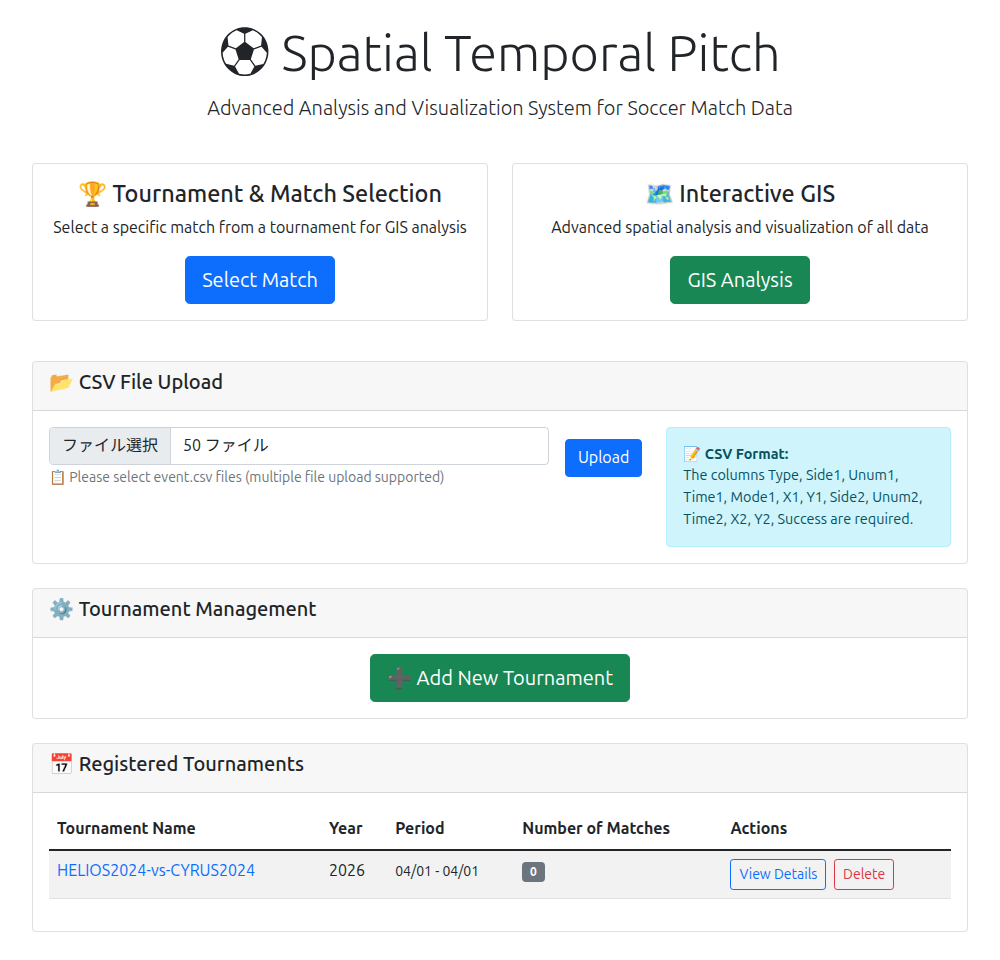
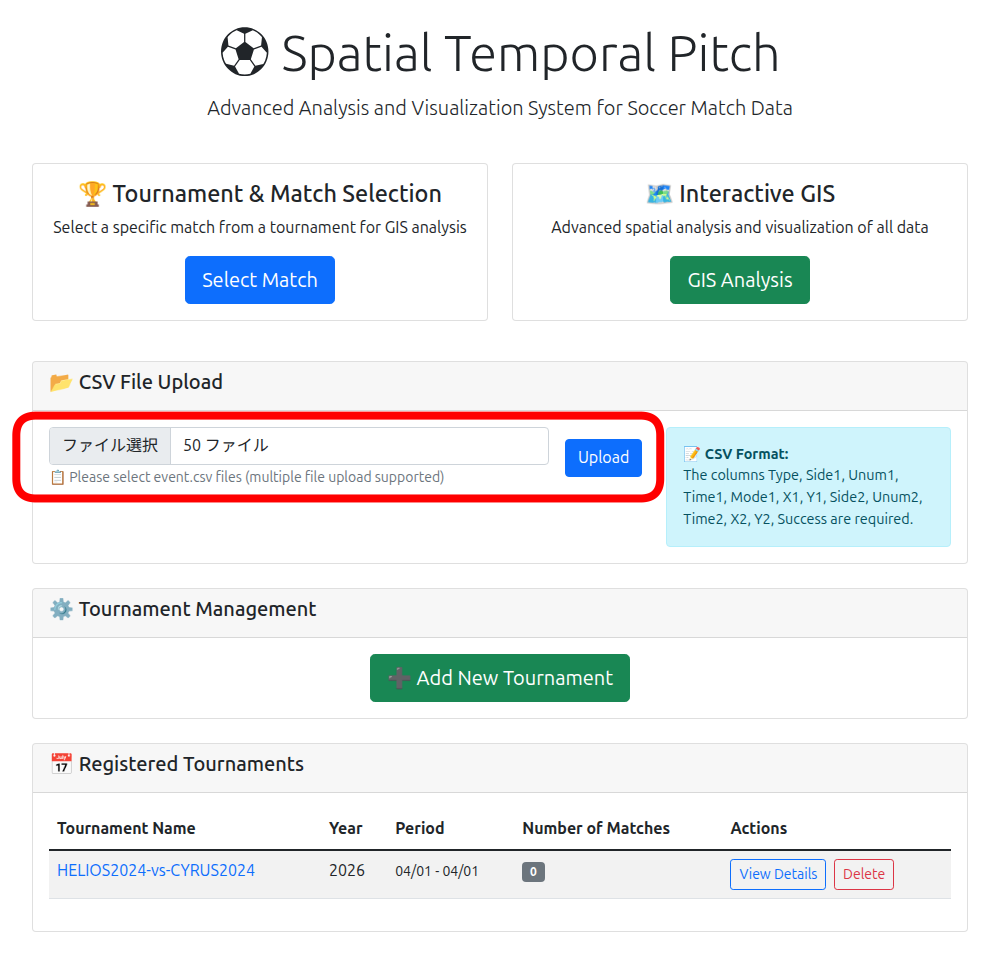
Add install.md and user_guide.md.

Changed region(s): [[0.0, 0.4375, 0.682, 0.5312], [0.031, 0.4062, 0.651, 0.4375]]

diff --git a/docs/user_guide.md b/docs/user_guide.md
@@ -1,0 +1,160 @@
+# User Guide
+
+ST-Pitch provides a web interface for registering soccer match event CSV files, organizing them into tournaments/groups, and analyzing the data on an interactive soccer field.
+
+## Overview
+
+The main page provides four main entry points:
+
+- Tournament and match selection
+- Interactive GIS analysis
+- CSV file upload
+- Tournament management
+
+![Top page](images/usage_00_top.png)
+
+## Recommended Workflow
+
+For first-time use, the recommended order is:
+
+1. Create a tournament
+2. Upload event CSV files
+3. Register uploaded matches to a tournament
+4. Open GIS analysis for a selected match
+5. Narrow the target area or conditions with filters
+6. Extract and review event sequences when needed
+
+## 1. Create a Tournament
+
+Use the **Add New Tournament** button on the top page to create a tournament container for your matches. A tournament can represent a specific competition, season, or any grouping of matches you want to analyze together.
+
+On the Add Tournament page, enter:
+
+- Tournament Name
+- Year
+- Start Date
+- End Date
+
+![Add tournament form](images/usage_01_group_1.png)
+Then click **Register Tournament**.
+
+After registration, the tournament appears in the Registered Tournaments list.
+
+## 2. Upload Event CSV Files
+
+From the top page, use the **CSV File Upload** section to upload one or more event CSV files.
+
+![CSV upload section](images/usage_03_upload_1.png)
+
+
+The CSV files must contain the required columns shown in the UI:
+
+| Column   | Description                         |
+|----------|-------------------------------------|
+| Type     | Event type                          |
+| Side1    | Team side of the acting player      |
+| Unum1    | Uniform number of the acting player |
+| Time1    | Start time of the event             |
+| Mode1    | Play mode at event start            |
+| X1, Y1   | Start position on the field         |
+| Side2    | Team side of the receiving player   |
+| Unum2    | Uniform number of the receiving player |
+| Time2    | End time of the event               |
+| X2, Y2   | End position on the field           |
+| Success  | Whether the event succeeded         |
+
+You can download event CSV files (`.event.csv`) from the [RoboCup2D-data](https://github.com/hidehisaakiyama/RoboCup2D-data) repository or create your own CSV files from `.rcg` files using [`rcg2data`](https://github.com/hidehisaakiyama/rcg2data) tool.
+
+
+You can upload multiple files at once. After selecting files, click **Upload**. When the upload succeeds, the page shows a success message.
+
+![Upload success](images/usage_03_upload_2-success.png)
+
+## 3. Register Uploaded Matches to a Tournament
+
+Open a tournament from the Registered Tournaments list to open the tournament detail page.
+
+If no match is registered yet, the page shows an empty state with an **Add Match** button.
+
+![Tournament detail before match registration](images/usage_03_upload_3-register-csv-to-group.png)
+
+Click **Add Match** to open the available match list. Select the matches you want to include in the tournament, then click **Add Selected Matches to Tournament**.
+
+![CSV files selected](images/usage_03_upload_4-select-csv.png)
+
+
+After registration, the tournament detail page lists the registered matches with buttons for **Match Selection & GIS Display** and **Full Data GIS Display**.
+
+![Add matches to tournament](images/usage_03_upload_5-list.png)
+
+
+## 4. Open Interactive GIS Analysis
+
+There are two main ways to open the GIS screen:
+
+- From the top page, click **GIS Analysis** to display all uploaded data.
+- From a tournament or match list, open GIS for a specific match.
+
+The GIS page displays event trajectories on a soccer field together with filter controls.
+
+![GIS overview](images/usage_04_gis_1.png)
+
+The main filters include:
+
+| Filter         | Description                                   |
+|----------------|-----------------------------------------------|
+| Event Type     | Filter by type of event (pass, dribble, etc.) |
+| Team           | Filter by team side                           |
+| Player number  | Filter by uniform number                      |
+| Match          | Filter by match ID (file name)                |
+| Success        | Filter by event outcome                       |
+| Time range     | Filter by start and end time                  |
+| Display limit  | Maximum number of events to display           |
+| Coordinate range | Bounding box filter on the field            |
+
+After choosing conditions, click **Coordinate Search** to update the results.
+
+## 5. Filter by Area on the Field
+
+You can perform spatial filtering directly on the pitch.
+
+Use the drawing tools on the left side of the map to create a **rectangle**, **circle**, or **polygon**. After drawing a shape, click **Search** to apply the spatial filter.
+
+![Spatial filter drawing](images/usage_04_gis_2_filter.png)
+
+The filtered result is reflected both on the pitch and in the list below the map.
+
+![Spatial filter applied](images/usage_04_gis_4_after-filter.png)
+
+To remove the spatial filter, click the **Clear** button next to the coordinate controls.
+
+## 6. Export Results
+
+Below the map, the **Event List** table shows the filtered events with fields such as start/end time, type, mode, team side, player number, positions, success flag, and match ID.
+
+![Event list and map](images/usage_04_gis_2_map.png)
+
+Click **Download CSV** to export the current search results as a CSV file.
+
+## 7. Extract Event Sequences
+
+ST-Pitch can extract a local event sequence from the current filtered area.
+
+First, define the target area on the pitch using the spatial filter. Then click **Extract Sequence**.
+
+![Sequence extraction mode](images/usage_05_sequence-1.png)
+
+You can select a sequence in the sequence extraction mode by clicking on the map or the event list. When a sequence candidate is found, the extracted sequence is highlighted on the map.
+
+![Sequence candidate highlighted](images/usage_05_sequence-2.png)
+
+Click **Filter by Sequence** to limit the view to the extracted sequence only.
+
+![Sequence filtered on the map](images/usage_05_sequence-3.png)
+
+The **Event List** table then shows the ordered events in the sequence.
+
+![Sequence event list](images/usage_05_sequence-4.png)
+
+Click **Clear Sequence Filter** or **Exit Sequence Mode** to return to the normal GIS workflow.
+

diff --git a/README.md b/README.md
@@ -17,78 +17,10 @@ The tools are designed to facilitate in-depth analysis of soccer matches, enabli
 - **Web Framework**: Flask for building the web application.
 - **Visualization**: Leaflet.js for interactive maps and data visualization.
 
-## Installation
+## Documentation
 
-The following steps are based on Ubuntu Linux 24.04 LTS. Please adjust the commands accordingly for other environments.
-
-1. Clone the repository:
-   ```bash
-    git clone https://github.com/alab-forge/ST-Pitch.git
-    cd ST-Pitch
-   ```
-1. Set up the PostgreSQL database and PostGIS extension.
-   ```bash
-    sudo apt-get install postgresql postgresql-contrib postgis
-    sudo systemctl enable --now postgresql
-   ```
-1. Create a new database.
-   Start the PostgreSQL shell (psql) as the postgres user:
-   ```bash
-    sudo -u postgres psql
-   ```
-   In the PostgreSQL shell, run:
-   ```sql
-    CREATE USER your_user WITH PASSWORD 'your_password'; -- Replace with your desired username and password
-    CREATE DATABASE your_db OWNER your_user; -- Replace with your desired database name and owner
-    \c your_db -- Connect to the newly created database
-    CREATE EXTENSION postgis;
-    \q -- Exit the PostgreSQL shell
-   ```
-1. Create a virtual environment and install the required Python packages.
-   ```bash
-    python3 -m venv venv
-    source venv/bin/activate
-    pip install -r requirements.txt
-   ```
-1. Setup the database configuration using the `.env` file.
-   The project uses a `.env` file for database and application configuration. To set up your environment:
-   
-   1. Create a symbolic link from `dot.env` to `.env`:
-   ```bash
-    ln -s dot.env .env
-   ```
-   
-   2. Edit `.env` and replace the placeholders with your actual values:
-   ```bash
-    # Database Configuration
-    DB_NAME=your_db
-    DB_USER=your_user
-    DB_PASSWORD=your_password
-    DB_HOST=localhost
-    DB_PORT=5432
-
-    # Flask Configuration
-    SECRET_KEY=your_secret_key
-   ```
-   
-   The `.env` file is automatically loaded when the application starts and is excluded from version control for security reasons.
-
-1. Run the Flask application.
-   ```bash
-   ./run.sh
-   ```
-1. Access the web application by navigating to `http://localhost:5000` in your web browser.
-
-**Note**:
-- Ensure that you have the necessary permissions and configurations for the PostgreSQL database and PostGIS extension to run the application successfully.
-- The name of the database, user, and password used in the example above are placeholders. Please replace them with your actual database credentials.
-- If you are deploying the application on a public server, consider using a WSGI server such as uWSGI or Gunicorn to serve the Flask application. Additionally, using a reverse proxy server like Nginx can enhance security and performance. 
-
-## Usage 
-
-The top page of the web interface provides options for managing tournaments/groups and uploading event CSV files. 
-
-
+- [Installation Instructions](docs/install.md): Step-by-step guide to set up the database and web application.
+- [User Guide](docs/user_guide.md): Instructions on how to use the web interface.
 
 
 ## Contributing

diff --git a/docs/install.md b/docs/install.md
@@ -1,0 +1,67 @@
+# Installation
+
+The following steps are based on Ubuntu Linux 24.04 LTS. Please adjust the commands accordingly for other environments.
+
+1. Clone the repository:
+   ```bash
+   git clone https://github.com/alab-forge/ST-Pitch.git
+   cd ST-Pitch
+   ```
+1. Set up the PostgreSQL database and PostGIS extension.
+   ```bash
+   sudo apt-get install postgresql postgresql-contrib postgis
+   sudo systemctl enable --now postgresql
+   ```
+1. Create a new database.
+   Start the PostgreSQL shell (psql) as the postgres user:
+   ```bash
+   sudo -u postgres psql
+   ```
+   In the PostgreSQL shell, run:
+   ```sql
+   CREATE USER your_user WITH PASSWORD 'your_password'; -- Replace with your desired username and password
+   CREATE DATABASE your_db OWNER your_user; -- Replace with your desired database name and owner
+   \c your_db -- Connect to the newly created database
+   CREATE EXTENSION postgis;
+   \q -- Exit the PostgreSQL shell
+   ```
+1. Create a virtual environment and install the required Python packages.
+   ```bash
+   python3 -m venv venv
+   source venv/bin/activate
+   pip install -r requirements.txt
+   ```
+1. Set up the database configuration using the `.env` file.
+   The project uses a `.env` file for database and application configuration. To set up your environment:
+
+   1. Create a symbolic link from `dot.env` to `.env`:
+   ```bash
+   ln -s dot.env .env
+   ```
+
+   2. Edit `.env` and replace the placeholders with your actual values:
+   ```bash
+   # Database Configuration
+   DB_NAME=your_db
+   DB_USER=your_user
+   DB_PASSWORD=your_password
+   DB_HOST=localhost
+   DB_PORT=5432
+
+   # Flask Configuration
+   SECRET_KEY=your_secret_key
+   ```
+
+   The `.env` file is automatically loaded when the application starts and is excluded from version control for security reasons.
+
+1. Run the Flask application.
+   ```bash
+   ./run.sh
+   ```
+1. Access the web application by navigating to `http://localhost:5000` in your web browser.
+
+## Notes
+
+- Ensure that you have the necessary permissions and configurations for the PostgreSQL database and PostGIS extension to run the application successfully.
+- The database name, user, and password shown above are placeholders. Replace them with your actual database credentials.
+- If you are deploying the application on a public server, consider using a WSGI server such as uWSGI or Gunicorn. A reverse proxy such as Nginx can also improve security and performance.
